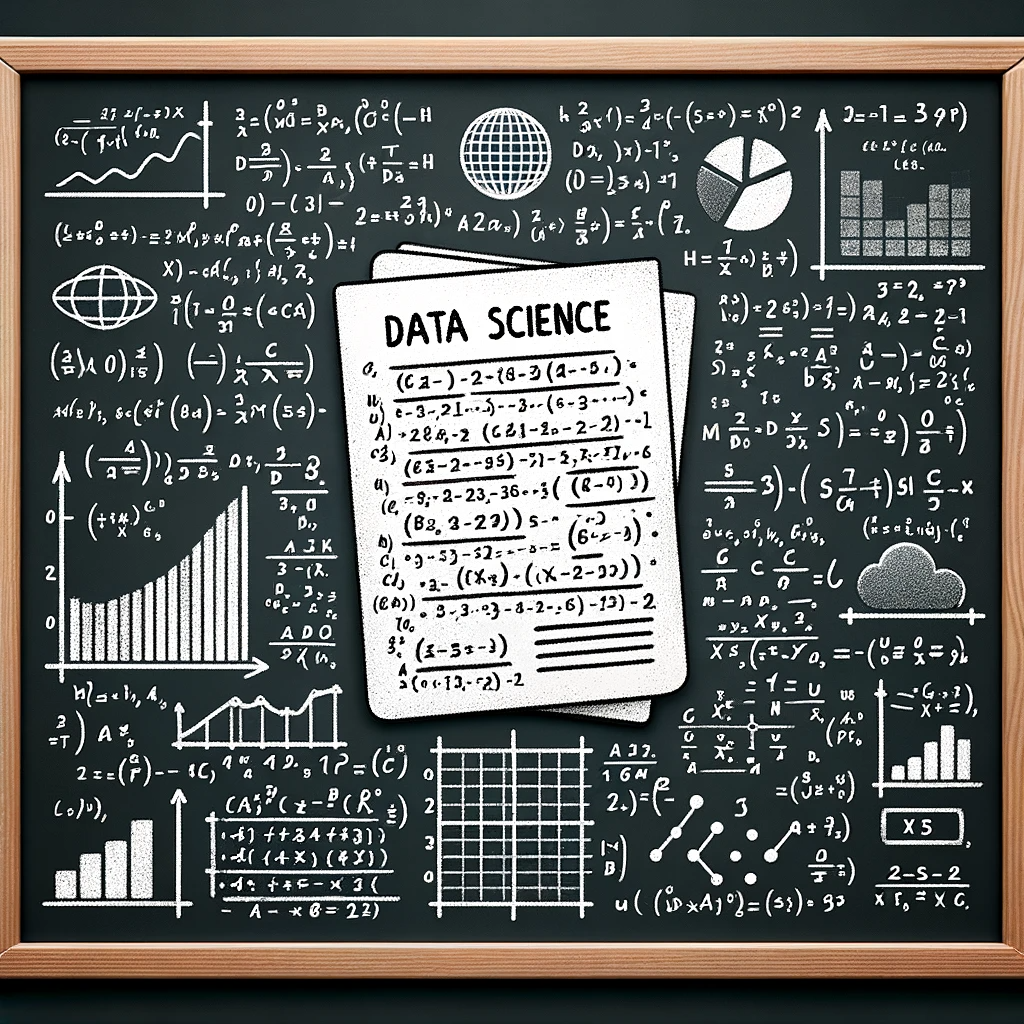
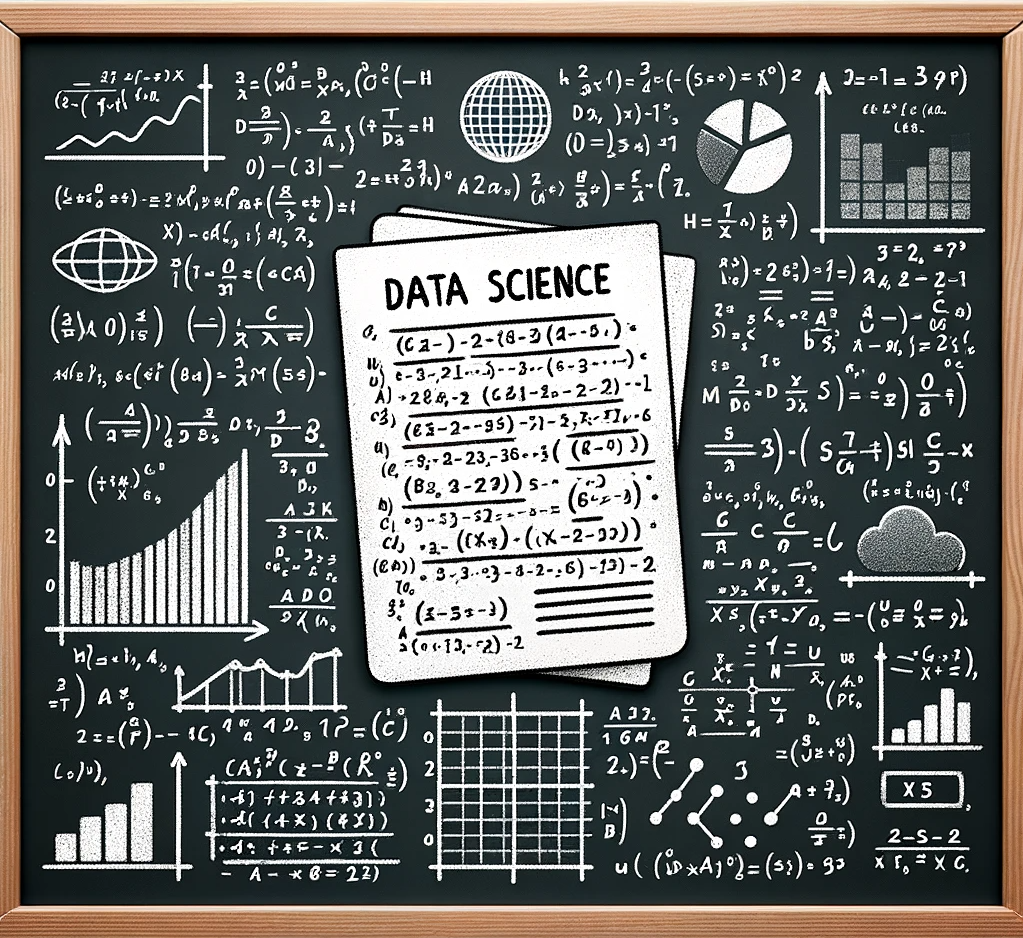
Rescale image in readme

diff --git a/README.md b/README.md
@@ -1,4 +1,4 @@
-![Cheatsheets](img/datascience_cheatsheets.png)
+<img src="img/datascience_cheatsheets.png" width=400>
 
 # Dataframe Cheatsheets
 - [Pandas to Dask](pandas_dask_cheatsheet.md)
